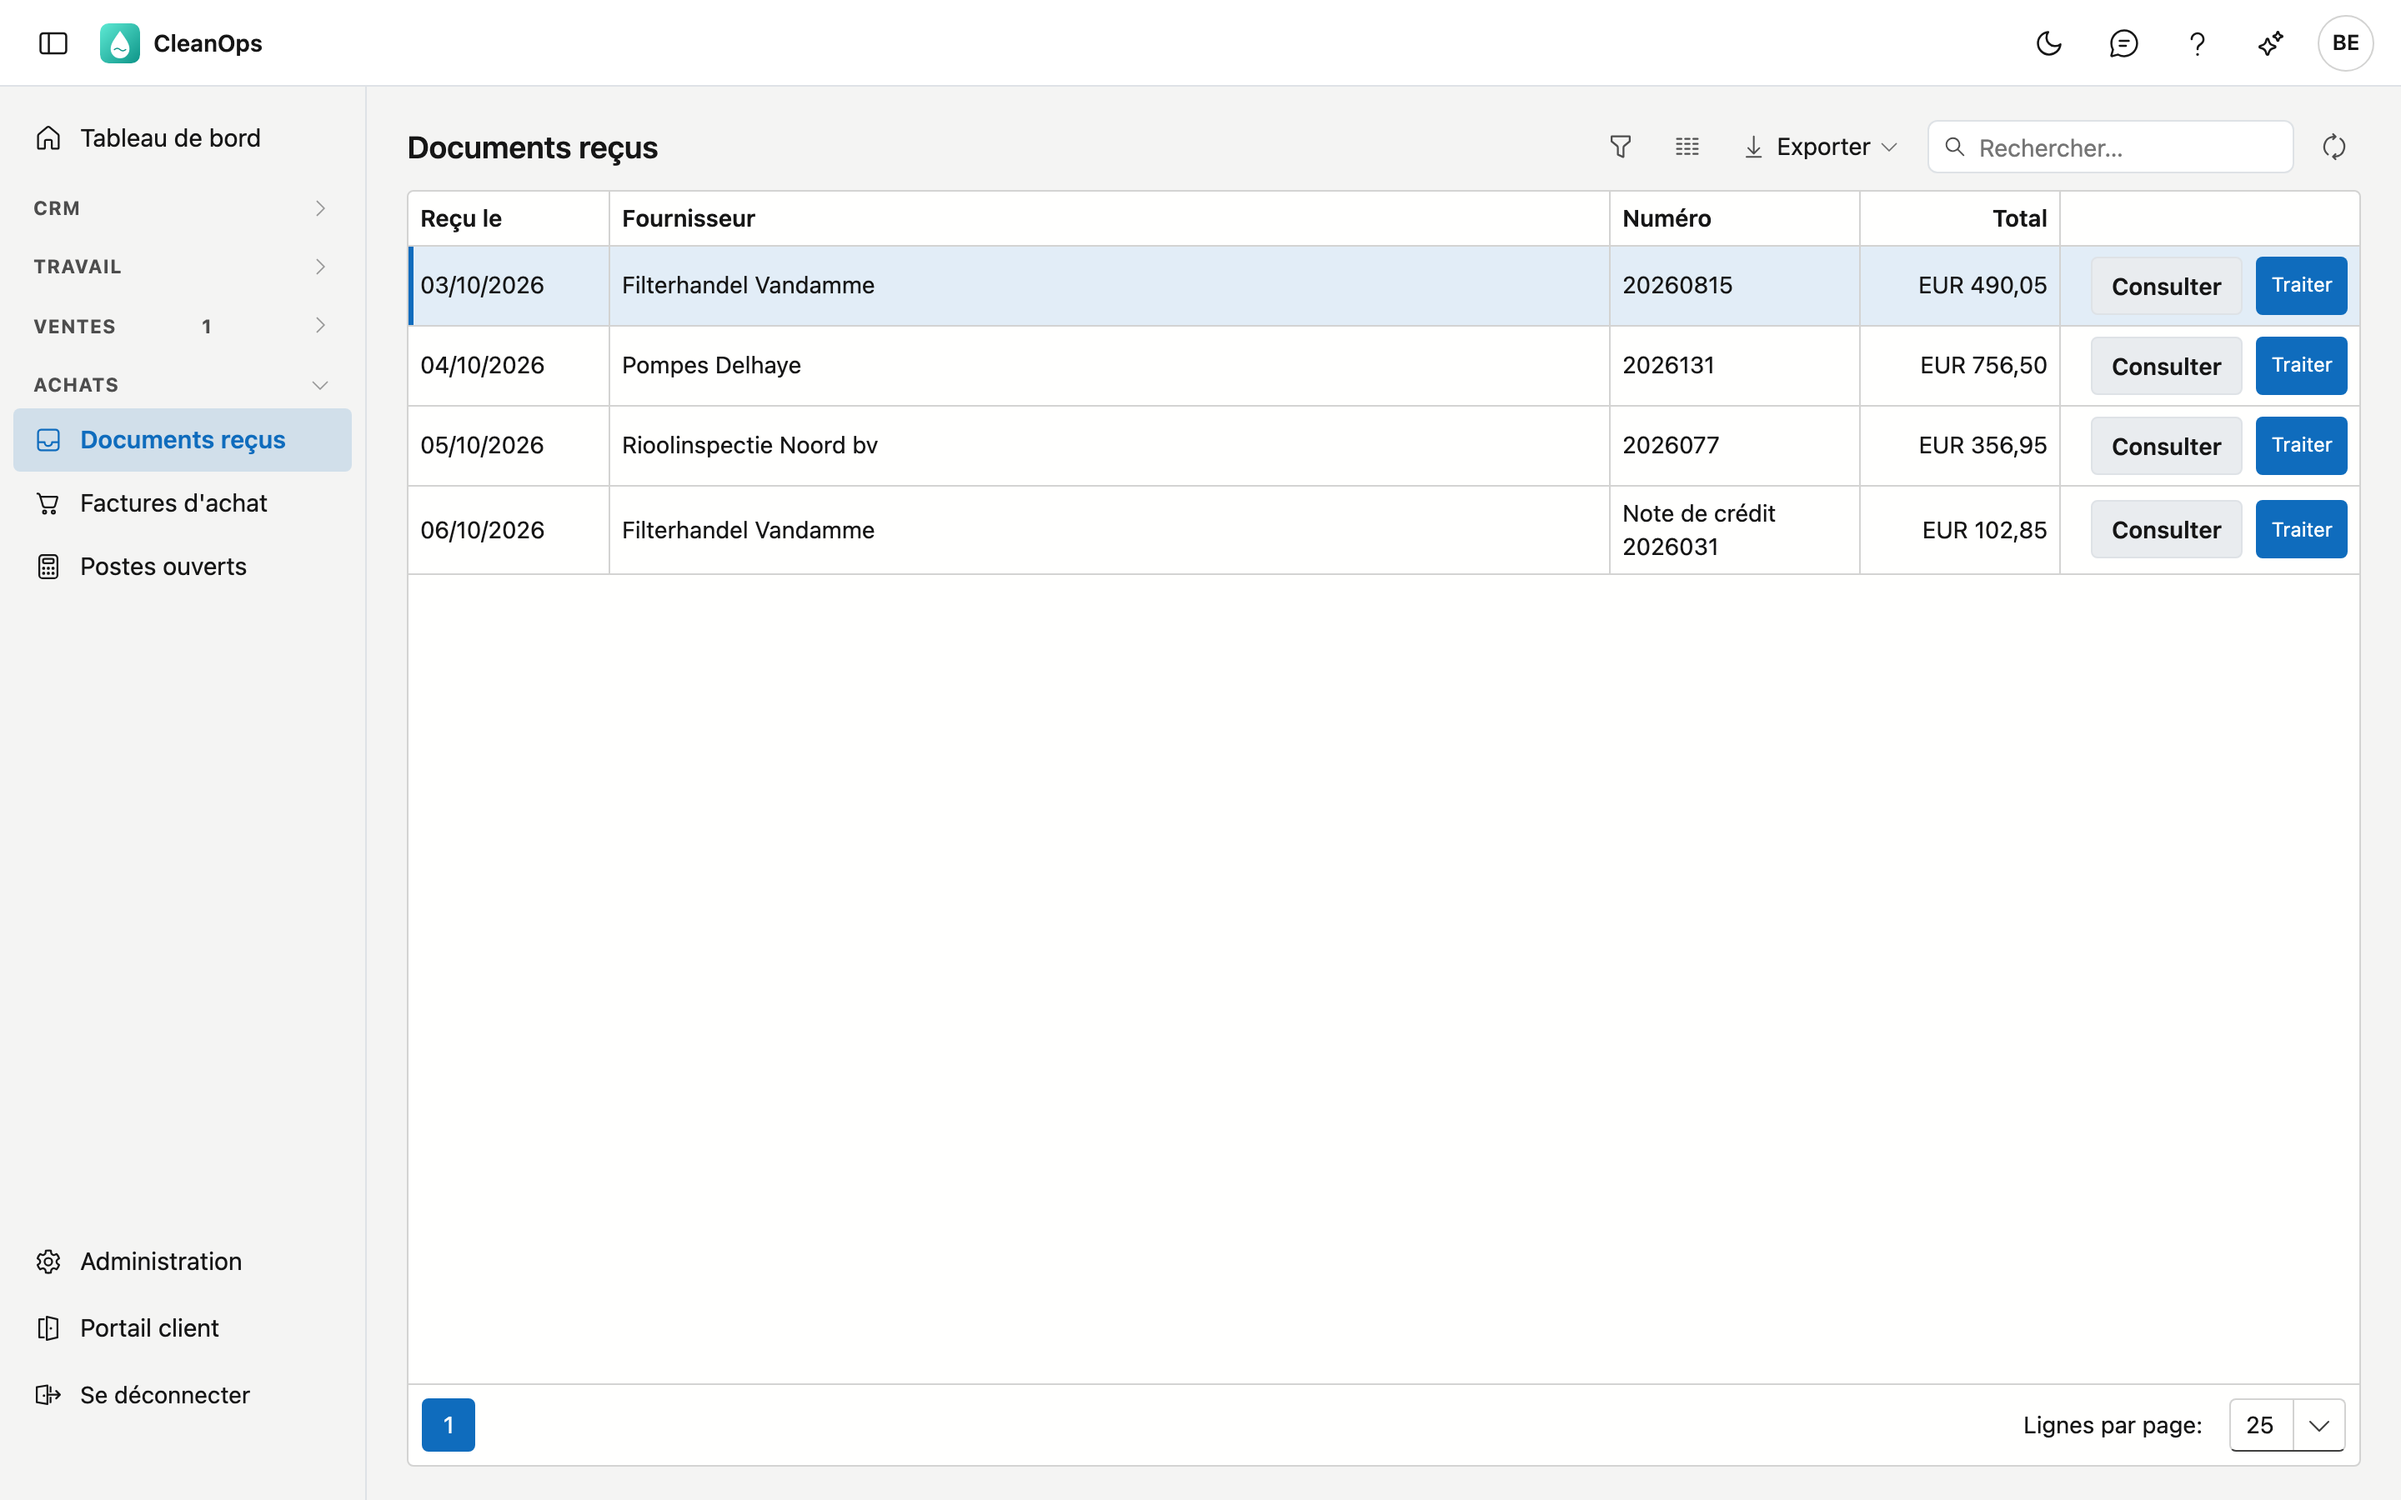
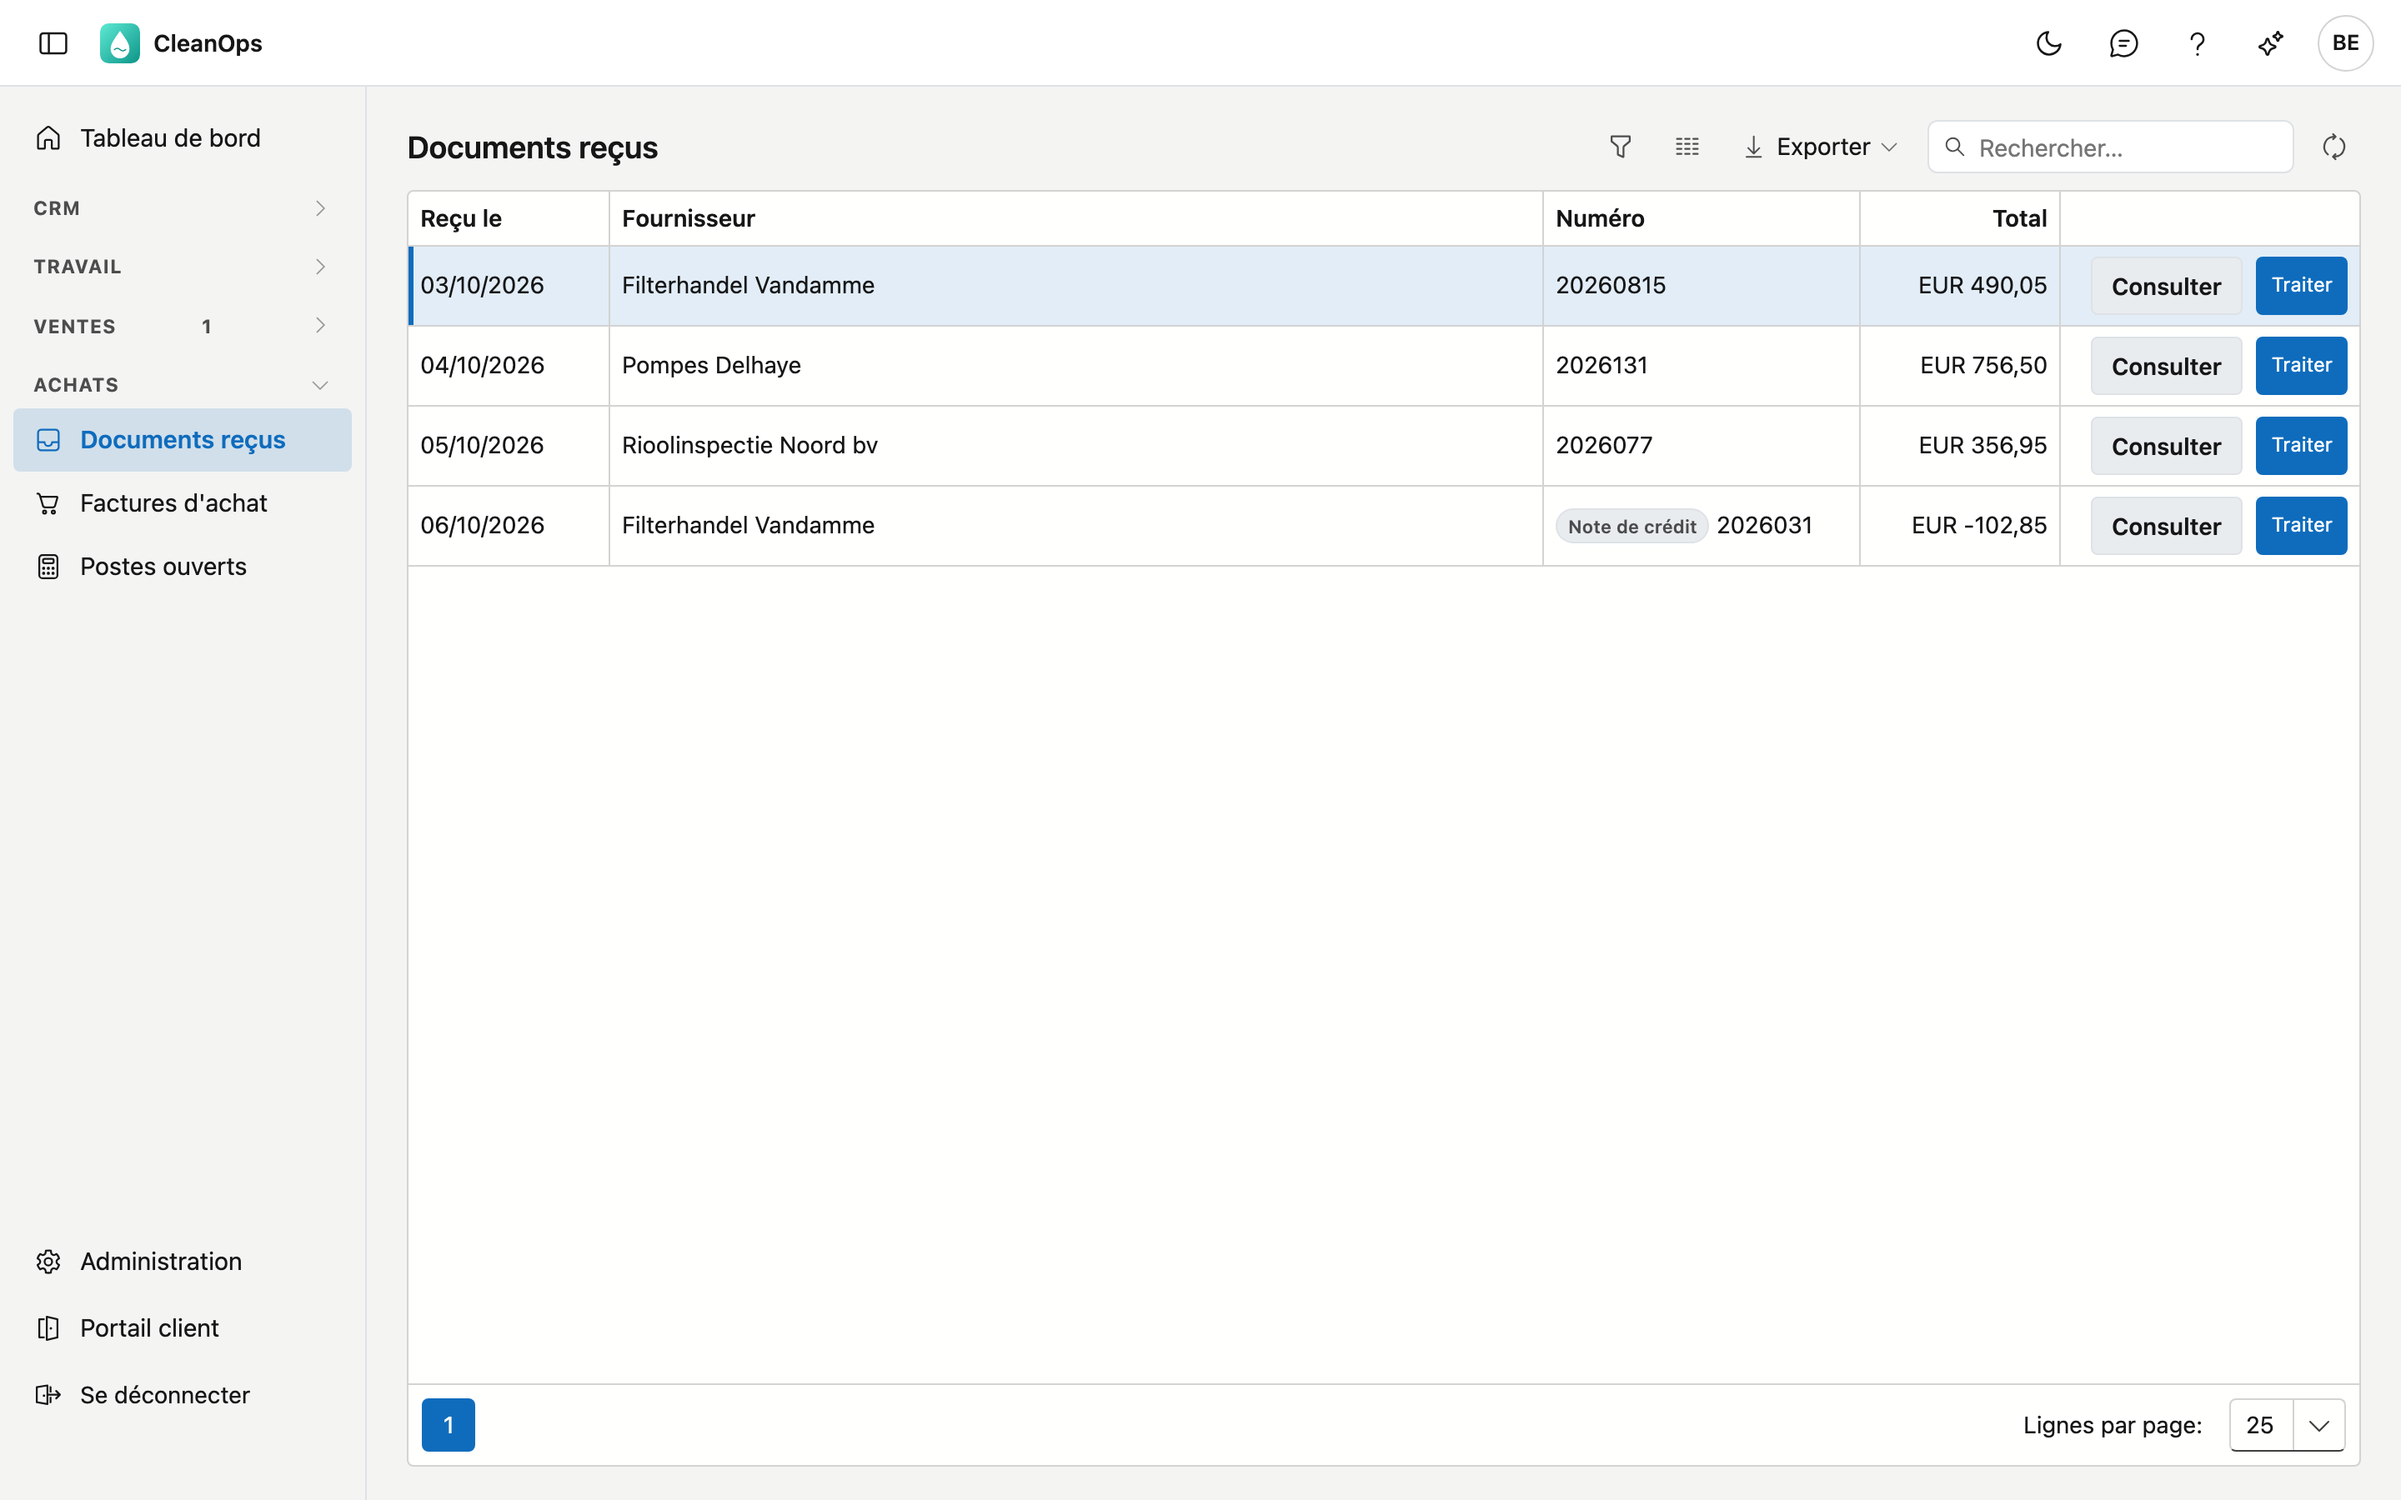
Binnengekomen documenten: creditnota met label en minteken (AppKit 0.443.0), lijstbeeld NL/FR opnieuw

diff --git a/docs/binnengekomen-documenten.fr.md b/docs/binnengekomen-documenten.fr.md
@@ -19,8 +19,8 @@ achats*, vous voyez la liste et les PDF, mais pas le bouton **Traiter**.
 
 ## La liste
 
-Par document, vous voyez quand il a été reçu, le fournisseur, le numéro et le total. Une note de crédit porte les mots
-*Note de crédit* devant son numéro. Le document le plus ancien figure en haut.
+Par document, vous voyez quand il a été reçu, le fournisseur, le numéro et le total. Une note de crédit porte
+l'étiquette *Note de crédit* à côté du numéro et un signe moins dans le total. Le document le plus ancien figure en haut.
 
 - **Consulter** — ouvre le PDF du fournisseur dans une nouvelle fenêtre.
 - **Traiter** — ouvre une facture d'achat préremplie (voir ci-dessous).

diff --git a/docs/binnengekomen-documenten.md b/docs/binnengekomen-documenten.md
@@ -19,8 +19,8 @@ ziet u de lijst en de PDF's, maar niet de knop **Verwerken**.
 
 ## De lijst
 
-Per document ziet u wanneer het ontvangen werd, de leverancier, het nummer en het totaal. Een creditnota staat er met
-het woord *Creditnota* voor het nummer. Het oudste document staat bovenaan.
+Per document ziet u wanneer het ontvangen werd, de leverancier, het nummer en het totaal. Een creditnota draagt
+het label *Creditnota* bij het nummer en een minteken in het totaal. Het oudste document staat bovenaan.
 
 - **Bekijken** — opent de PDF van de leverancier in een nieuw venster.
 - **Verwerken** — opent een voorgevulde aankoopfactuur (zie hieronder).
